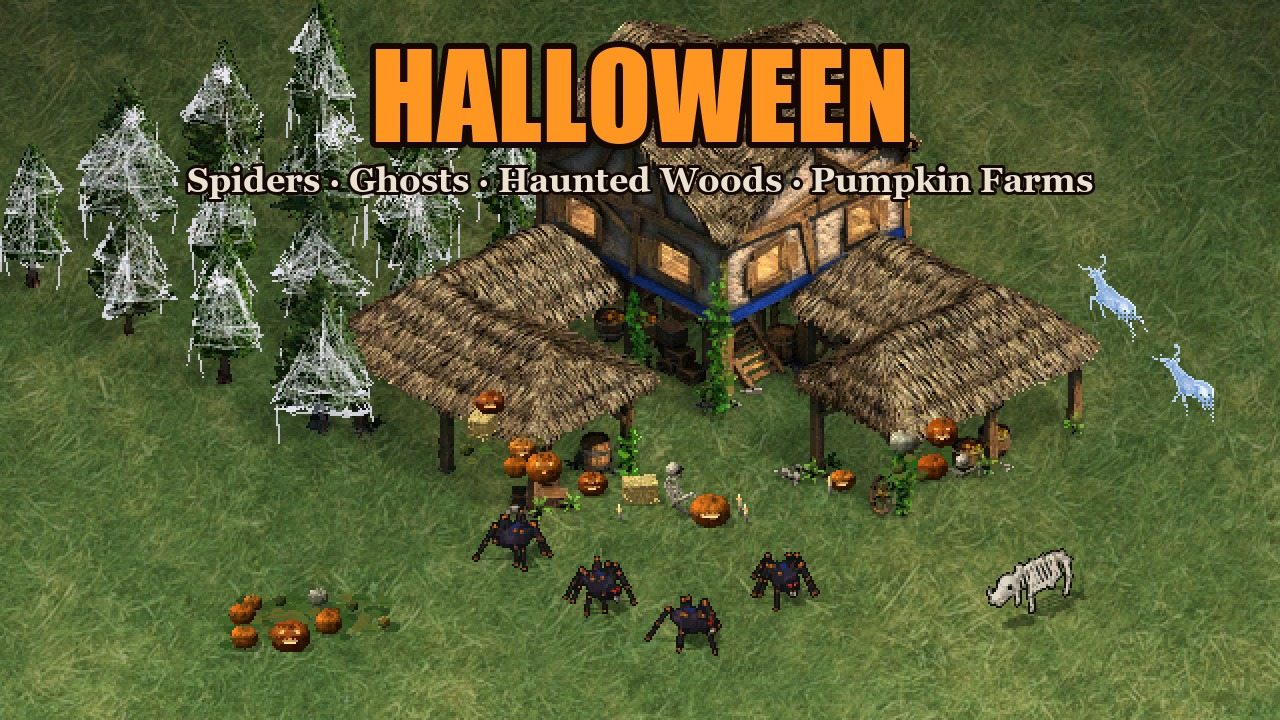
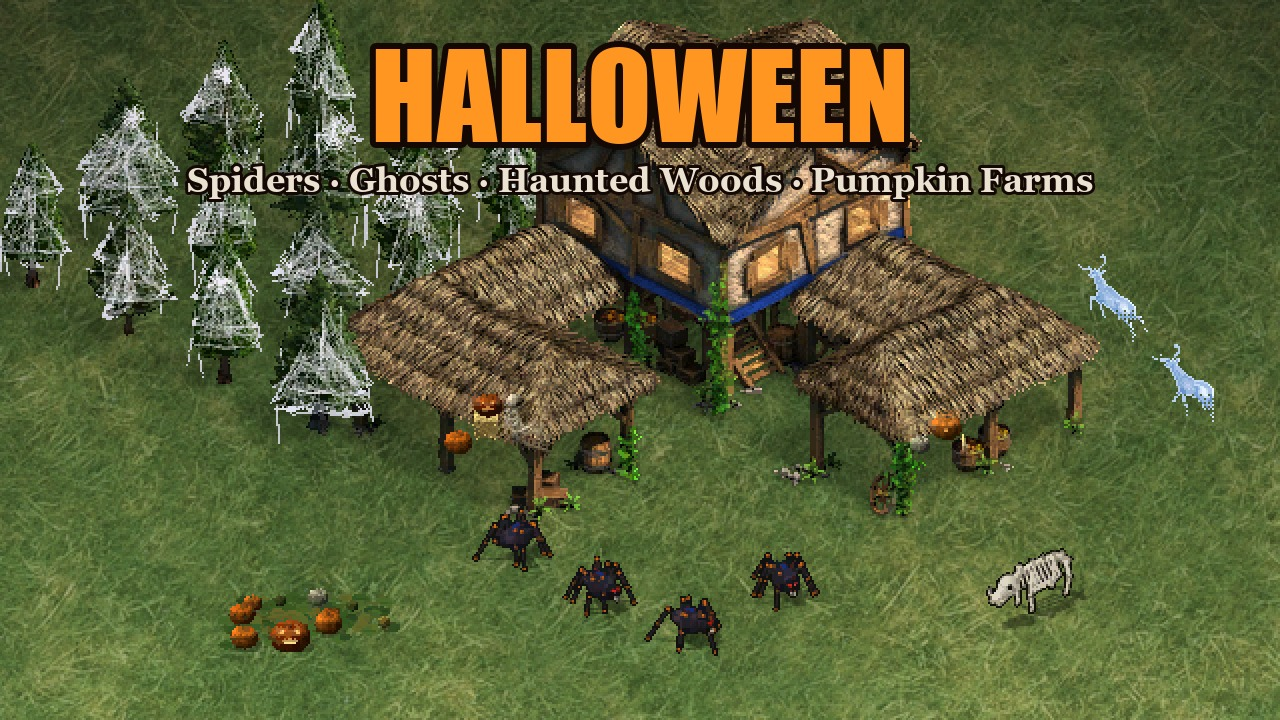
Keep Town Center fronts clear; give ghosts a faint shadow
The area in front of a Town Center is where sheep are eaten, so the
harvest display now sits only at the two outer corners and the bone pile
and vine patches are gone; carcasses no longer blend in with props. Ghost
animals keep a faint shadow on the ground under them so they read as
hovering and are easier to spot. Fish stay shadowless.

Changed region(s): [[0.3438, 0.5194, 0.5938, 0.7333], [0.625, 0.55, 0.7812, 0.7028]]

diff --git a/tools/tc_pumpkins.py b/tools/tc_pumpkins.py
@@ -6,22 +6,15 @@ import harvest
 def _layout(rng, flip):
     """Props as (dx, dy, lift, kind). dx/dy are ground spots relative to the building's
     hotspot; lift raises a prop onto something (a pumpkin on a hay bale)."""
-    j = lambda v: v + rng.uniform(-3, 3)
+    # Only the two outer corners are decorated. The front of the building is where sheep
+    # are brought and eaten, so it stays clear and carcasses are easy to spot.
+    j = lambda v: v + rng.uniform(-2, 2)
     P = []
-    # left corner: hay bale with pumpkins on it and around it, on a vine patch
-    P += [(j(-108), j(22), 0, "leaves"), (j(-118), j(10), 0, "bale")]
-    P += [(-118 + rng.uniform(-4, 4), 10.5, "BALE", "jack")]
-    P += [(j(-96), j(24), 0, rng.choice(["jack", "plain"])), (j(-128), j(22), 0, "gourd"),
-          (j(-86), j(32), 0, "jack"), (j(-104), j(32), 0, "plain")]
-    # entrance: skeleton slumped against a bale, a lantern at its feet, candles
-    P += [(j(-38), 44, 0, "bale"), (-22, 50, 0, "skeleton"), (j(-2), 56, 0, "jack"),
-          (j(8), 52, 0, "candle"), (j(13), 56, 0, "candle"), (j(-50), 55, 0, "candle")]
-    # right corner: pumpkin patch with bones in the leaves
-    P += [(j(102), j(24), 0, "leaves"), (j(92), j(18), 0, "white"), (j(112), j(16), 0, "jack"),
-          (j(106), j(30), 0, "plain"), (j(88), j(30), 0, "gourd"), (j(98), j(34), 0, "gourd"),
-          (j(124), j(30), 0, "pile")]
-    # a lantern either side of the doorway
-    P += [(j(-66), j(40), 0, "jack"), (j(62), j(40), 0, "jack"), (j(54), j(44), 0, "candle")]
+    # one corner: a hay bale with a lantern on top and a skeleton slumped against it
+    P += [(j(-118), 10, 0, "bale"), (-118 + rng.uniform(-3, 3), 10.5, "BALE", "jack"),
+          (-102, 16, 0, "skeleton"), (j(-130), j(20), 0, "plain")]
+    # the other corner: a lantern, a white pumpkin and a candle
+    P += [(j(112), j(14), 0, "jack"), (j(100), j(20), 0, "white"), (j(122), j(22), 0, "candle")]
     return [(dx * flip, dy, lift, kind) for dx, dy, lift, kind in P]
 
 

diff --git a/tools/ghost.py b/tools/ghost.py
@@ -11,9 +11,10 @@ RIM = np.array([238, 250, 255])
 FLOAT = 4   # px the ghost hovers above the ground
 
 
-def ghostify(frame, opacity=1.0, float_px=FLOAT, wisp=True):
+def ghostify(frame, opacity=1.0, float_px=FLOAT, wisp=True, shadow=0.4):
     """frame: an SLD frame dict from sld.read; returns a new frame dict.
-    opacity 0..1 scales how solid the ghost is (used to fade it out on death)."""
+    opacity 0..1 scales how solid the ghost is (used to fade it out on death).
+    shadow scales the original shadow (0 = none); it stays on the ground while the ghost hovers."""
     if "main" not in frame["layers"]:
         return dict(width=frame["width"], height=frame["height"], hotspot=frame["hotspot"], unk=frame["unk"], layers={})
     m = frame["layers"]["main"]
@@ -43,8 +44,13 @@ def ghostify(frame, opacity=1.0, float_px=FLOAT, wisp=True):
         out[..., :3] = np.clip(col, 0, 255).astype(np.uint8)
         out[..., 3] = np.where(keep, 255, 0)
         out[~keep, :3] = 0
-    # hover: shift the sprite up; ghosts cast no shadow
+    # hover: shift the sprite up and leave a faint shadow on the ground below it
     y_up = min(float_px, y1 - (y1 % 4))
     y_up -= y_up % 4
     layers = {"main": dict(rect=(x1, y1 - y_up, x2, y2 - y_up), pixels=out)}
+    sh = frame["layers"].get("shadow")
+    if shadow and sh is not None and a.any():
+        faint = (sh["pixels"].astype(np.float64) * shadow * opacity).astype(np.uint8)
+        if faint.any():
+            layers["shadow"] = dict(rect=sh["rect"], pixels=faint)
     return dict(width=frame["width"], height=frame["height"], hotspot=frame["hotspot"], unk=frame["unk"], layers=layers)

diff --git a/tools/build_halloween.py b/tools/build_halloween.py
@@ -266,7 +266,7 @@ def haunted_water():
             continue
         if f.startswith("a_fish_"):
             hdr, frames = sld.read(modkit.GAME_GFX + f)
-            out = [ghost.ghostify(fr, opacity=0.85, float_px=0, wisp=False) for fr in frames]
+            out = [ghost.ghostify(fr, opacity=0.85, float_px=0, wisp=False, shadow=0) for fr in frames]
         elif f.startswith("b_misc_fish_trap") and "foundation" not in f:
             hdr, frames = sld.read(modkit.GAME_GFX + f)
             out = [_haunt_trap(fr, 77) for fr in frames]
